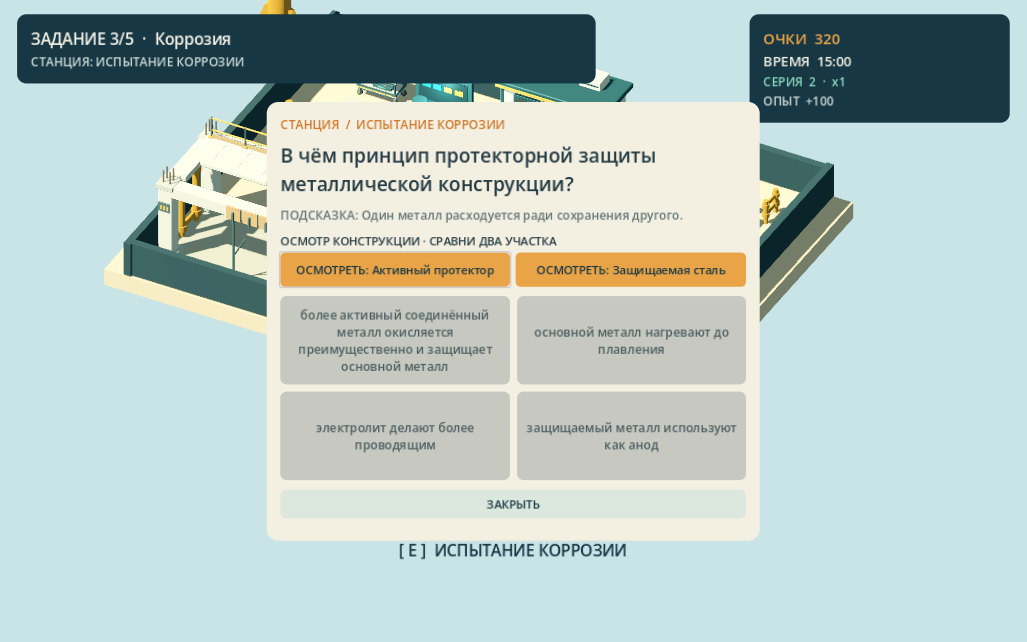
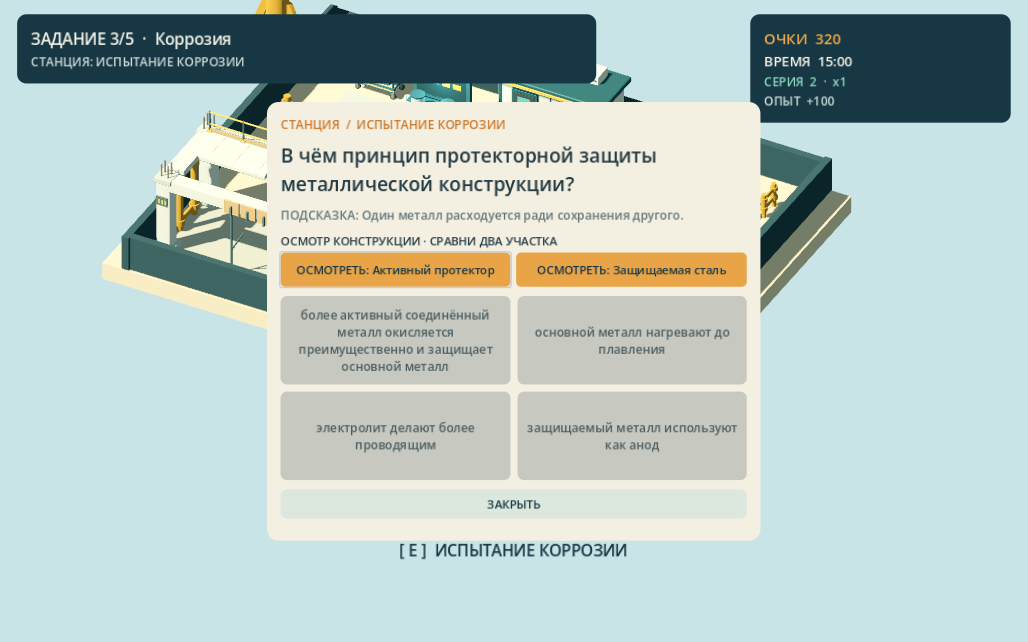
Record native Windows layout verification

diff --git a/PROGRESS.md b/PROGRESS.md
@@ -78,15 +78,15 @@ Phases 3, 7 and 8 — environment, UI, visual and audio quality pass for the fir
 
 ## Current work
 
-Levels 1–5 are playable career rounds with level-specific progression records. Contextual controls cover Level 2 mixing, Level 3 scales, solution preparation, pH readings, ionization scans, hydrolysis comparisons, dissociation boards and final solution inspection, Level 4 Hess, kinetics, equilibrium, electrode and corrosion comparison, and Level 5 inspection. The expanded 154-screen native Windows visual archive has been reviewed. The compact task-panel sizing and 199-task layout gate pass locally; native Windows CI for this final UI change is pending. Human playtesting, broader accessibility, performance and release QA remain open.
+Levels 1–5 are playable career rounds with level-specific progression records. Contextual controls cover Level 2 mixing, Level 3 scales, solution preparation, pH readings, ionization scans, hydrolysis comparisons, dissociation boards and final solution inspection, Level 4 Hess, kinetics, equilibrium, electrode and corrosion comparison, and Level 5 inspection. The expanded 154-screen native Windows visual archive has been reviewed. The compact task-panel sizing and 199-task layout gate pass locally and on native Windows CI. Human playtesting, broader accessibility, performance and release QA remain open.
 
 ## Next task
 
-Verify the compact task panels and all-task layout gate on native Windows CI. Then run a human-driven exported-app/audio playtest, refine remaining art and accessibility, profile the site on a normal student laptop, complete physical Windows QA, resolve L2-050 with the target curriculum, complete subject-matter review, and publish the GitHub prerelease.
+Run a human-driven exported-app/audio playtest, refine remaining art and accessibility, profile the site on a normal student laptop, complete physical Windows QA, resolve L2-050 with the target curriculum, complete subject-matter review, and publish the GitHub prerelease.
 
 ## Last verification
 
-2026-10-02: Windows visual run 37015765073 passed all 14 rounds and produced 154 PNGs. The downloaded archive digest matched GitHub metadata, and every round's contact sheet was reviewed. The 199-task layout smoke passes at 1028×642, 1152×720 and 1440×900 in unread and expanded states. A source graphical corrosion round passed at 1028×642; its compact panel was reviewed and saved under `docs/screenshots/`. Native Windows CI for the latest UI sizing awaits this push.
+2026-10-02: Native Windows visual run 37021029300 passed the 199-task layout gate and all 14 graphical rounds; native Windows smoke run 37021029112 also passed at commit 8c089fb. The latest 154-image Windows archive digest matched GitHub metadata, and the full-size compact corrosion panel was reviewed and saved under `docs/screenshots/`. The refreshed macOS release app passed the focused corrosion round at 1028×642 and showed the same compact panel. Earlier Windows visual run 37015765073 produced 154 PNGs; its downloaded digest matched GitHub metadata and every contact sheet was reviewed. The 199-task local layout smoke passes at 1028×642, 1152×720 and 1440×900 in unread and expanded states.
 
 2026-10-02: Blender 5.2.2 exported the sample cart from tracked Python and editable `.blend`; the fresh GLB inspection matched source bounds and 6,012 triangles with no reported import issue. Reviewed the exported six-view sheet and two Godot site resolutions. Godot import/parse, Level 1–5 station routes, collision smoke, refreshed macOS Level 1/5 rounds and Windows PCK Level 5 round passed. M4 VSync profile reported 60 FPS median with 560 exploration and 615 task-panel median draw calls. Native Windows EXE CI awaits this push.
 

diff --git a/TODO.md b/TODO.md
@@ -52,5 +52,5 @@
 - [ ] Phase 12 review: resolve L2-050 with the target curriculum and conduct a course-specific subject-matter review of Levels 1–5; all Level 5 tasks passed the independent content and native interaction checks
 - [ ] Phase 13: Levels 2–5 and their station mechanics; Levels 2–5 have playable first passes, with contextual station interactions and human visual QA still required
 - [ ] Phase 14: verify approximately 60 FPS on a representative student laptop and optimize measured bottlenecks; an Apple M4 source-project baseline now covers exploration and task panels at 1440×900
-- [ ] Phase 15: complete physical Windows input/audio/save QA; GitHub Actions exports the native x86_64 EXE, passes Levels 1–5 plus focused interactions including pH, ion scans, hydrolysis, dissociation, electrode comparison and corrosion inspection, and uploads the EXE/PCK; the 154-screen career/focused Windows visual matrix passed and was reviewed, and the new all-task native Windows layout gate awaits CI
+- [ ] Phase 15: complete physical Windows input/audio/save QA; GitHub Actions exports the native x86_64 EXE, passes Levels 1–5 plus focused interactions including pH, ion scans, hydrolysis, dissociation, electrode comparison and corrosion inspection, and uploads the EXE/PCK; the 154-screen career/focused Windows visual matrix and all-task native Windows layout gate pass
 - [ ] Phase 16: source push and GitHub prerelease after the vertical slice meets its quality gate
